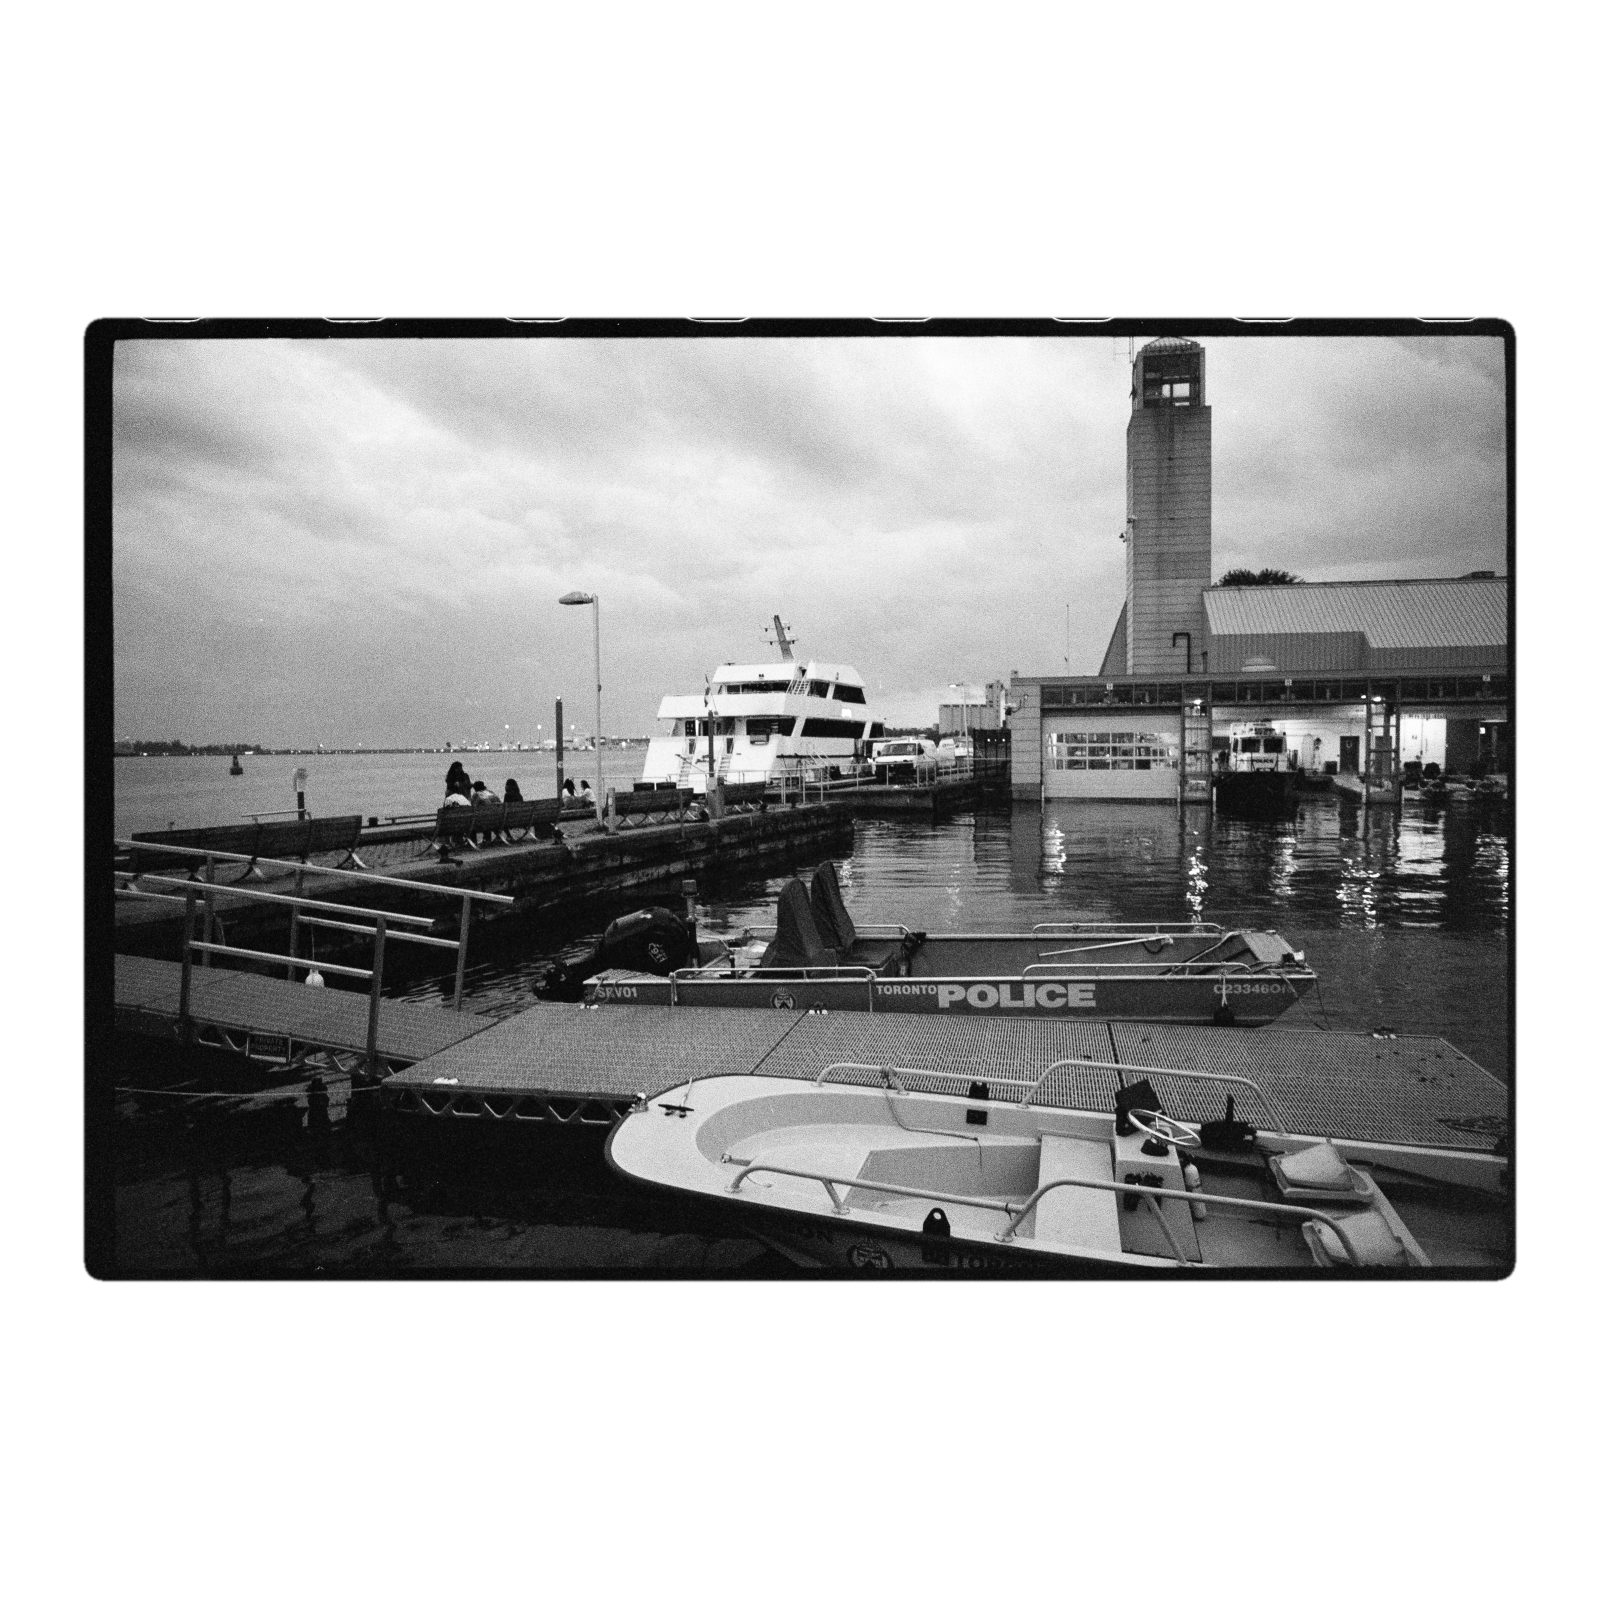
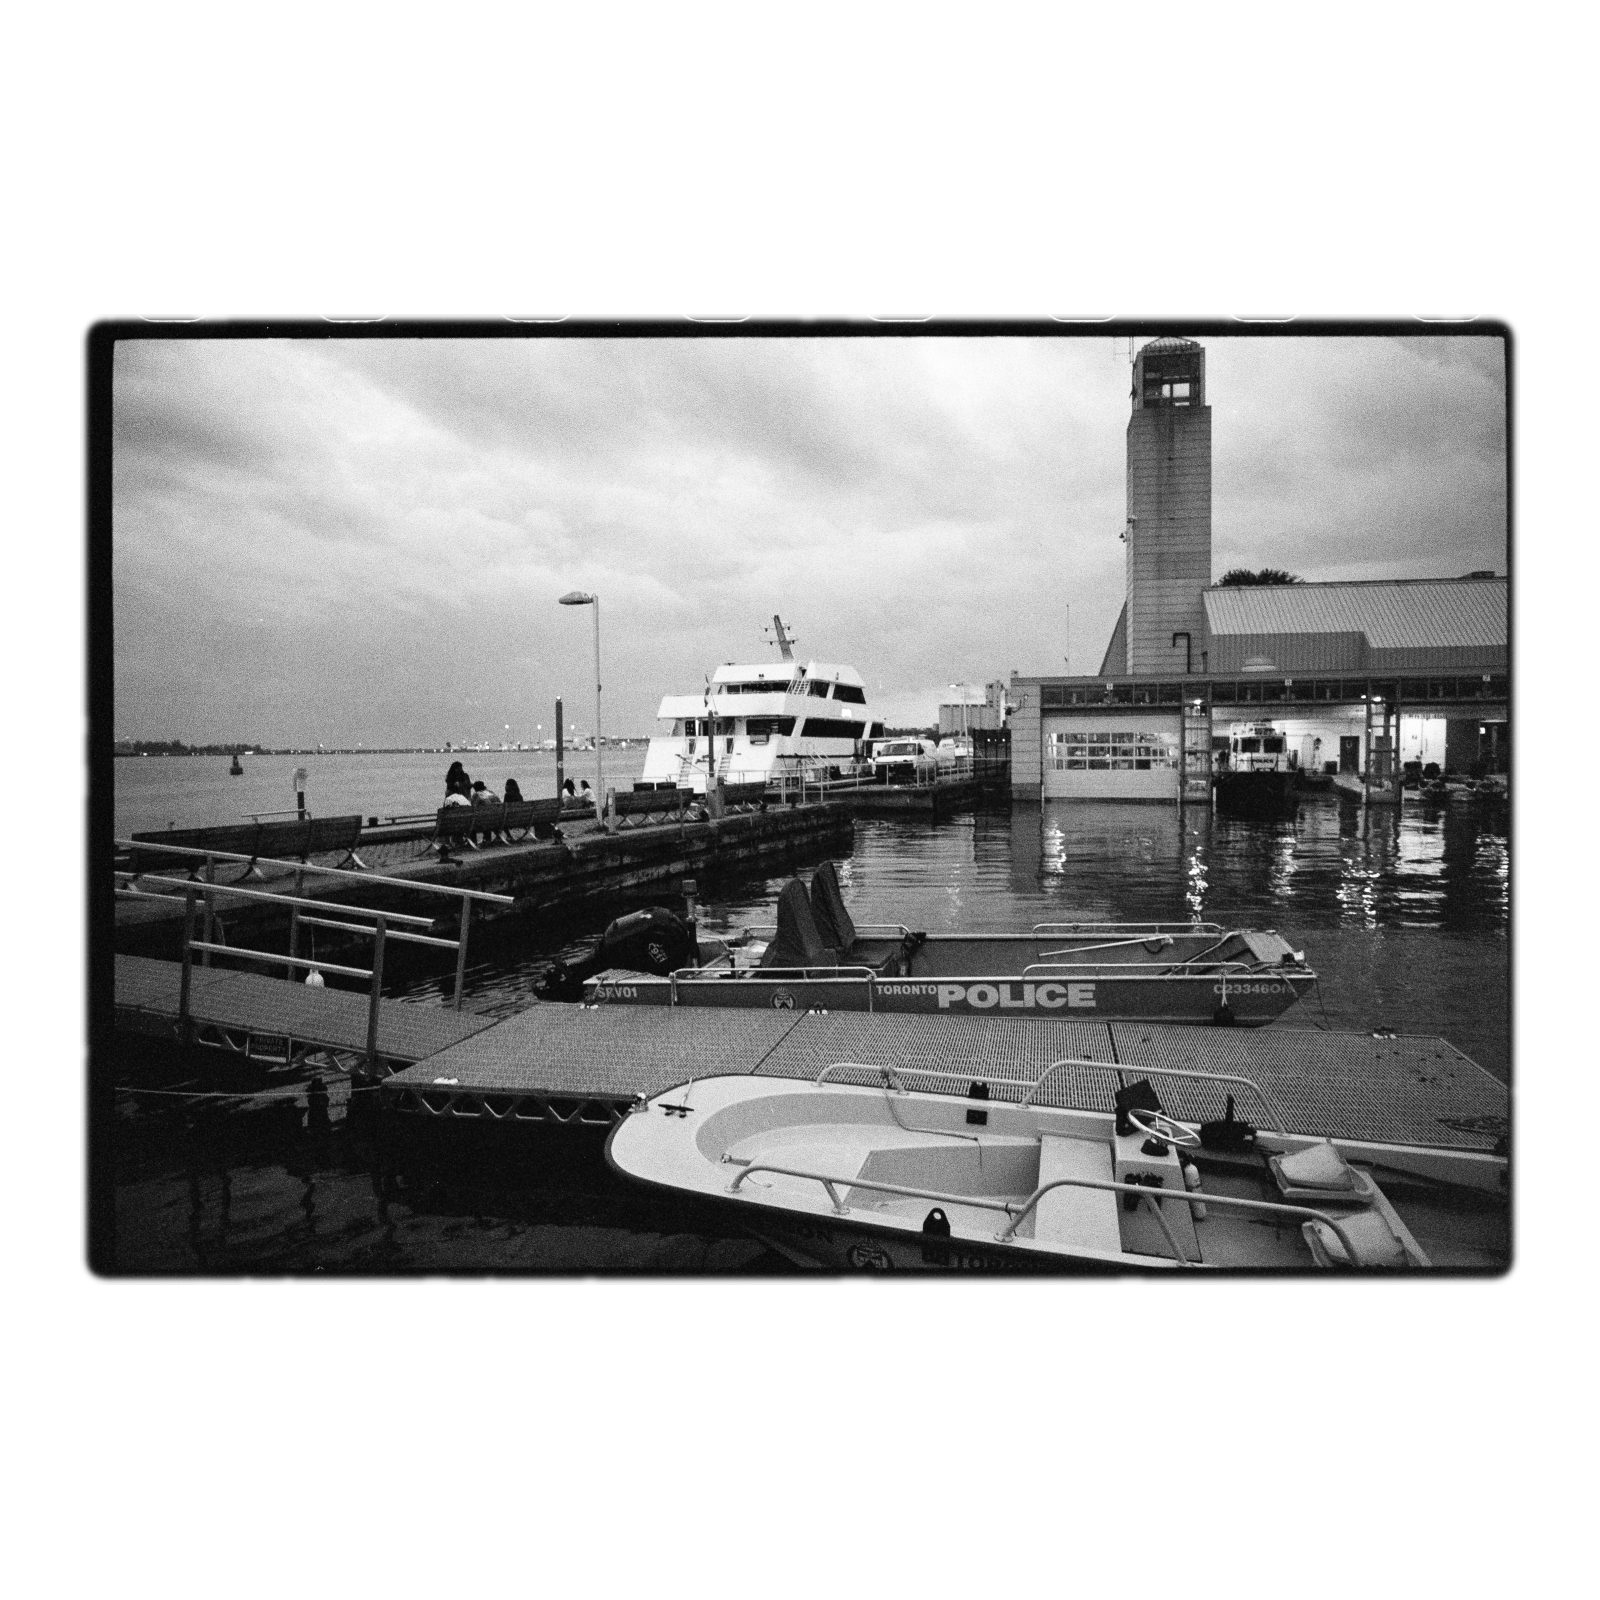
Defaults: --feather 3.0 --roughness 0.5; regenerate samples

diff --git a/rebate.py b/rebate.py
@@ -523,11 +523,11 @@ def main():
     ap.add_argument("--radius-jitter", type=float, default=0.25,
                     help="random +/- variation of the corner radius, as a "
                          "fraction (default 0.25)")
-    ap.add_argument("--roughness", type=float, default=0.25,
+    ap.add_argument("--roughness", type=float, default=0.5,
                     help="edge irregularity in px (0 = perfectly straight; "
-                         "default 0.25)")
-    ap.add_argument("--feather", type=float, default=1.0,
-                    help="edge softness in px (default 1.0)")
+                         "default 0.5)")
+    ap.add_argument("--feather", type=float, default=3.0,
+                    help="edge softness in px (default 3.0)")
     ap.add_argument("--seed", type=int, default=None,
                     help="random seed for edge texture (default: random)")
     ap.add_argument("--quality", type=int, default=100,

diff --git a/README.md b/README.md
@@ -64,8 +64,8 @@ Or explicitly:
 | `--border`    | `0.012`         | film border kept around the gate (fraction of gate height)|
 | `--radius`    | `0.015`         | corner radius (fraction of final crop size)              |
 | `--radius-jitter` | `0.25`       | random +/- variation of corner radius (fraction)         |
-| `--roughness` | `0.25`          | edge irregularity in px (0 = perfectly straight)         |
-| `--feather`   | `1.0`           | edge softness in px (0 = hard edge)                      |
+| `--roughness` | `0.5`           | edge irregularity in px (0 = perfectly straight)         |
+| `--feather`   | `3.0`           | edge softness in px (0 = hard edge)                      |
 | `--sprocket-chance` | `0.5`      | chance (0-1) a tiny sliver of sprockets is visible, per side (top/bottom) |
 | `--seed`      | random          | random seed for edge texture (for reproducibility)       |
 | `--quality`   | `100`           | JPEG quality 1-100                                       |
